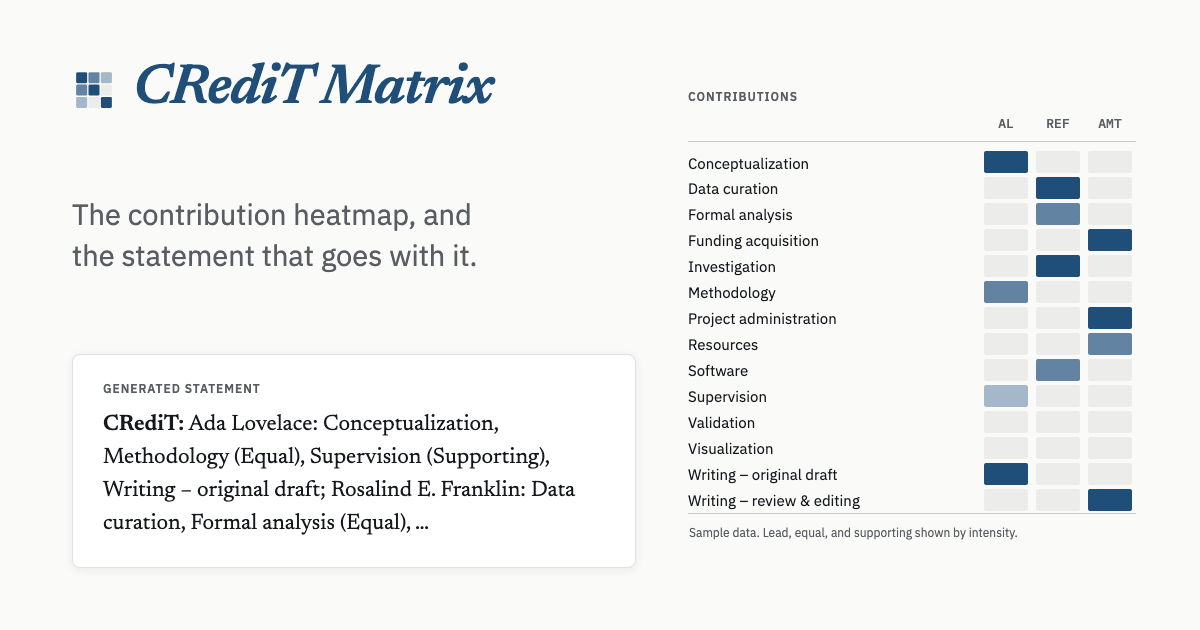
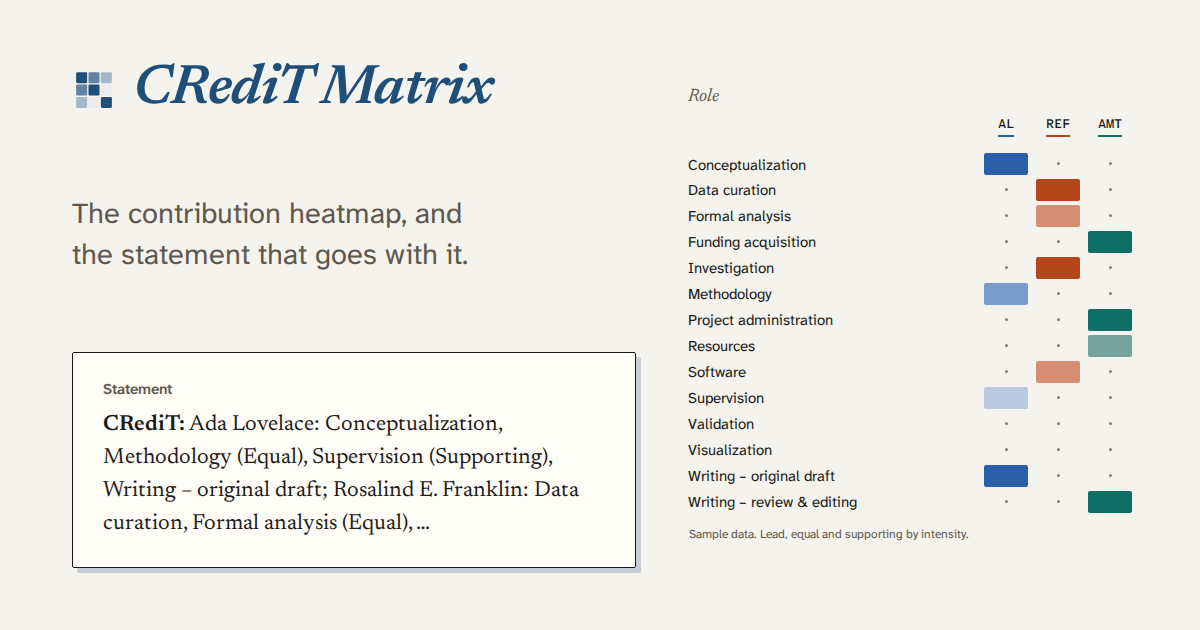
fix: save colour by contributor per draft and drop it past eight people
- keep colorByContributor in the draft beside heatmapMonoColor, so a picked
  hue survives a reload or draft switch; a draft saved before the field
  loads in one hue when it has a non-default colour, and reset turns it on
- contributorHues returns null past eight people, so the grid key and
  column rules fall back to one hue like the cells already did
- repair a stored heatmap colour that is not hex to the default, since the
  page tint mixes it into the background
- restyle the social card and the <credit-matrix> element to the new paper,
  ink edge and Atkinson stack
- fix the brand README paths to public/ after the Vite move

diff --git a/docs/brand/opengraph-image.html b/docs/brand/opengraph-image.html
@@ -1,32 +1,34 @@
 <!doctype html><meta charset="utf-8">
-<link href="https://fonts.googleapis.com/css2?family=Newsreader:ital,wght@0,400;0,600;1,600&family=IBM+Plex+Mono:wght@500&family=IBM+Plex+Sans:wght@400;500;600&display=swap" rel="stylesheet">
+<link href="https://fonts.googleapis.com/css2?family=Newsreader:ital,wght@0,400;0,600;1,400;1,600&family=Atkinson+Hyperlegible+Mono:wght@500&family=Atkinson+Hyperlegible+Next:wght@400;600&display=swap" rel="stylesheet">
 <style>
  *{box-sizing:border-box}
  html,body{margin:0;padding:0}
- body{width:1200px;height:630px;background:#fafaf9;font-family:"IBM Plex Sans",system-ui;color:#16181c;
+ body{width:1200px;height:630px;background:#f4f3ed;font-family:"Atkinson Hyperlegible Next",system-ui;color:#1c1a17;
       display:grid;grid-template-columns:1fr 448px;gap:52px;padding:56px 64px 56px 72px;overflow:hidden}
  .left{display:flex;flex-direction:column;justify-content:space-between;padding:6px 0}
  .lock{display:flex;align-items:center;gap:17px}
  .wm{font-family:Newsreader,serif;font-style:italic;font-weight:600;font-size:56px;line-height:1;
      letter-spacing:-.02em;color:#1f4e79}
- .sub{margin-top:26px;font-size:29px;line-height:1.4;color:#595c63;max-width:24ch;text-wrap:balance}
+ .sub{margin-top:26px;font-size:29px;line-height:1.4;color:#5e584e;max-width:24ch;text-wrap:balance}
  /* The statement is the app's real output, so it sits on the result card the
-    app gives it: bright paper, 8px corners, a slightly stronger shadow. */
- .out{background:#fff;border:1px solid rgba(201,201,197,.55);border-radius:8px;padding:26px 30px;
-      box-shadow:0 2px 10px rgba(22,24,28,.07)}
- .cap{font-size:12px;font-weight:600;letter-spacing:.08em;text-transform:uppercase;color:#595c63}
- .stmt{margin:13px 0 0;font-family:Newsreader,serif;font-size:22px;line-height:1.5;color:#16181c;max-width:46ch}
+    app gives it: bright paper, an ink edge and the hard sheet shadow. */
+ .out{background:#fffdf8;border:1px solid #1c1a17;border-radius:2px;padding:26px 30px;
+      box-shadow:5px 5px 0 rgb(31 78 121/.22)}
+ .cap{font-size:15px;font-weight:600;color:#5e584e}
+ .stmt{margin:10px 0 0;font-family:Newsreader,serif;font-size:22px;line-height:1.5;color:#1c1a17;max-width:46ch}
  .stmt b{font-weight:600}
  table{border-collapse:collapse;width:100%;align-self:center}
- caption{caption-side:top;text-align:left;font-size:12px;font-weight:600;letter-spacing:.08em;
-         text-transform:uppercase;color:#595c63;padding-bottom:11px}
- th.role{font-weight:400;font-size:15px;color:#16181c;text-align:left;padding:0 14px 0 0;white-space:nowrap}
- thead tr{border-bottom:1px solid #c9c9c5}
- thead th.ini{font-family:"IBM Plex Mono",monospace;font-weight:500;font-size:13px;color:#595c63;
-              padding:0 0 9px;width:52px}
- tfoot td{border-top:1px solid #c9c9c5;padding-top:11px;font-size:12px;color:#595c63}
+ caption{caption-side:top;text-align:left;font-family:Newsreader,serif;font-style:italic;font-size:18px;
+         color:#5e584e;padding-bottom:9px}
+ th.role{font-weight:400;font-size:15px;color:#1c1a17;text-align:left;padding:0 14px 0 0;white-space:nowrap}
+ thead th.ini{font-family:"Atkinson Hyperlegible Mono",monospace;font-weight:500;font-size:13px;color:#1c1a17;
+              padding:0 0 7px;width:52px}
+ /* Each column's name is underlined in that contributor's hue, as in the app. */
+ thead th.ini span{display:inline-block;padding-bottom:3px;border-bottom:2px solid var(--hue)}
+ tfoot td{padding-top:11px;font-size:12px;color:#5e584e}
  tbody tr td{padding:2px 0}
- .cell{width:44px;height:22px;border-radius:2px;margin:0 auto}
+ .cell{width:44px;height:22px;border-radius:2px;margin:0 auto;display:grid;place-items:center}
+ .cell.empty::after{content:"";width:3px;height:3px;border-radius:50%;background:#857d70}
  tbody tr:first-child td,tbody tr:first-child th{padding-top:9px}
 </style>
 <div class="left">
@@ -40,22 +42,23 @@
   </div>
   <p class="sub">The contribution heatmap, and the statement that goes with it.</p>
   <div class="out">
-    <div class="cap">Generated statement</div>
+    <div class="cap">Statement</div>
     <p class="stmt"><b>CRediT:</b> Ada Lovelace: Conceptualization, Methodology (Equal), Supervision (Supporting), Writing – original draft; Rosalind E. Franklin: Data curation, Formal analysis (Equal), …</p>
   </div>
 </div>
-<table id="m"><caption>Contributions</caption></table>
+<table id="m"><caption>Role</caption></table>
 <script>"use strict";
-const L='#1f4e79',E='#6283a1',S='#a5b8c9',N='#ececea';
+// The first three of CONTRIBUTOR_HUES (src/core/contributor-color.ts), lighter for equal and supporting.
+const hue={"Ada Lovelace":"#2a5fa8","Rosalind E. Franklin":"#b4471a","Alan M. Turing":"#0f6e66"};
 const roles=["Conceptualization","Data curation","Formal analysis","Funding acquisition","Investigation","Methodology","Project administration","Resources","Software","Supervision","Validation","Visualization","Writing – original draft","Writing – review & editing"];
 const data={"Ada Lovelace":{Conceptualization:100,Methodology:66,"Writing – original draft":100,Supervision:33},
  "Rosalind E. Franklin":{Investigation:100,"Data curation":100,Software:66,"Formal analysis":66},
  "Alan M. Turing":{"Funding acquisition":100,"Project administration":100,"Writing – review & editing":100,Resources:66}};
 const ini={"Ada Lovelace":"AL","Rosalind E. Franklin":"REF","Alan M. Turing":"AMT"};
-const fill=s=>s>66?L:s>33?E:s>0?S:N;
+const share=s=>s>66?100:s>33?62:32;
 const names=Object.keys(data);
 document.getElementById('m').innerHTML+=
- `<thead><tr><th class="role"></th>${names.map(n=>`<th class="ini">${ini[n]}</th>`).join('')}</tr></thead>`+
- `<tbody>${roles.map(r=>`<tr><th class="role">${r}</th>${names.map(n=>`<td><div class="cell" style="background:${fill(data[n][r]||0)}"></div></td>`).join('')}</tr>`).join('')}</tbody>`+
- `<tfoot><tr><td colspan="4">Sample data. Lead, equal, and supporting shown by intensity.</td></tr></tfoot>`;
+ `<thead><tr><th class="role"></th>${names.map(n=>`<th class="ini" style="--hue:${hue[n]}"><span>${ini[n]}</span></th>`).join('')}</tr></thead>`+
+ `<tbody>${roles.map(r=>`<tr><th class="role">${r}</th>${names.map(n=>`<td>${data[n][r]?`<div class="cell" style="background:color-mix(in oklab,${hue[n]} ${share(data[n][r])}%,#fffdf8)"></div>`:'<div class="cell empty"></div>'}</td>`).join('')}</tr>`).join('')}</tbody>`+
+ `<tfoot><tr><td colspan="4">Sample data. Lead, equal and supporting by intensity.</td></tr></tfoot>`;
 </script>

diff --git a/src/store/contribution-store.ts b/src/store/contribution-store.ts
@@ -55,6 +55,8 @@ export interface Draft {
   authors: Author[];
   inputMode: InputMode;
   heatmapMonoColor: string;
+  /** Colour the grid per contributor instead of in `heatmapMonoColor`. */
+  colorByContributor: boolean;
   outputLocale: LocaleCode;
   /** Last write, in epoch milliseconds. Orders the picker. */
   updatedAt: number;
@@ -158,9 +160,8 @@ interface ContributionState {
   inspectorTab: InspectorTab;
   /**
    * Colour the grid, chips and statement links per contributor rather than in
-   * the draft's one hue. A view preference, not part of a draft or a figure.
-   * shortcut: not persisted, so turning it off lasts until a reload; add it to
-   * PersistedState if people keep switching it off.
+   * the draft's one hue. Kept per draft, beside the hue it replaces; figures
+   * have their own option.
    */
   colorByContributor: boolean;
   /**
@@ -292,6 +293,7 @@ function liveDraft(state: ContributionState): Draft {
     authors: state.authors,
     inputMode: state.inputMode,
     heatmapMonoColor: state.heatmapMonoColor,
+    colorByContributor: state.colorByContributor,
     outputLocale: state.outputLocale,
     updatedAt: Date.now(),
     claim: state.claim,
@@ -307,6 +309,7 @@ function applyDraft(state: ContributionState, draft: Draft): void {
   state.authors = draft.authors;
   state.inputMode = draft.inputMode;
   state.heatmapMonoColor = draft.heatmapMonoColor;
+  state.colorByContributor = draft.colorByContributor;
   state.outputLocale = draft.outputLocale;
   state.claim = draft.claim;
   state.asks = draft.asks;
@@ -327,6 +330,7 @@ function emptyDraft(title = ""): Draft {
     authors: [],
     inputMode: "toggle",
     heatmapMonoColor: DEFAULT_MONO_COLOR,
+    colorByContributor: true,
     outputLocale: "en",
     updatedAt: Date.now(),
     claim: null,
@@ -431,7 +435,16 @@ function repairSingleDraft(value: unknown, id: string): Draft {
     title: typeof raw.title === "string" ? raw.title.slice(0, MAX_TITLE_LENGTH) : "",
     authors: repairAuthors(raw.authors),
     inputMode: raw.inputMode === "levels" ? "levels" : "toggle",
-    heatmapMonoColor: typeof raw.heatmapMonoColor === "string" ? raw.heatmapMonoColor : DEFAULT_MONO_COLOR,
+    // The page tint mixes this into its background, so a damaged value would blank the page.
+    heatmapMonoColor:
+      typeof raw.heatmapMonoColor === "string" && /^#(?:[0-9a-f]{3}|[0-9a-f]{6})$/i.test(raw.heatmapMonoColor)
+        ? raw.heatmapMonoColor
+        : DEFAULT_MONO_COLOR,
+    // A draft saved before this field kept the hue someone picked, so only an untouched one colours per person.
+    colorByContributor:
+      typeof raw.colorByContributor === "boolean"
+        ? raw.colorByContributor
+        : (raw.heatmapMonoColor ?? DEFAULT_MONO_COLOR) === DEFAULT_MONO_COLOR,
     outputLocale: normalizeLocaleCode(raw.outputLocale),
     updatedAt: typeof raw.updatedAt === "number" ? raw.updatedAt : 0,
     claim: isDraftClaim(raw.claim) ? raw.claim : null,
@@ -1323,6 +1336,7 @@ export const useContributionStore = create<ContributionState>()(
           state.title = "";
           state.inputMode = "toggle";
           state.heatmapMonoColor = DEFAULT_MONO_COLOR;
+          state.colorByContributor = true;
           state.outputLocale = "en";
           state.asks = {};
           state.selfId = null;

diff --git a/src/store/contribution-store.test.ts b/src/store/contribution-store.test.ts
@@ -1,5 +1,6 @@
 import { beforeEach, describe, expect, it, vi } from "vitest";
 import { CREDIT_ROLES, createAuthor } from "@/core";
+import { DEFAULT_MONO_COLOR } from "@/core/contributor-color";
 import type { LocaleCode } from "@/core/i18n";
 import { reloadForNewerSave } from "@/lib/reload-for-new-build";
 import {
@@ -1522,6 +1523,33 @@ describe("contribution store", () => {
       expect(saved.drafts.d2?.future).toBe("kept too");
     });
 
+    it("loads an older draft in one hue only when its owner had picked one", () => {
+      const merge = useContributionStore.persist.getOptions().merge;
+      const load = (d1: object) =>
+        (merge?.({ activeDraftId: "d1", drafts: { d1 } }, initial) as typeof initial | undefined)?.colorByContributor;
+      expect(load({ heatmapMonoColor: "#009e73" })).toBe(false);
+      expect(load({})).toBe(true);
+      expect(load({ heatmapMonoColor: "#009e73", colorByContributor: true })).toBe(true);
+    });
+
+    it("drops a damaged heatmap colour instead of tinting the page with it", () => {
+      const merge = useContributionStore.persist.getOptions().merge;
+      const merged = merge?.(
+        { activeDraftId: "d1", drafts: { d1: { heatmapMonoColor: "red;" } } },
+        initial,
+      ) as typeof initial;
+      expect(merged.heatmapMonoColor).toBe(DEFAULT_MONO_COLOR);
+    });
+
+    it("keeps colour by contributor per draft", () => {
+      store().setColorByContributor(false);
+      const first = store().activeDraftId;
+      store().createDraft();
+      expect(store().colorByContributor).toBe(true);
+      store().switchDraft(first);
+      expect(store().colorByContributor).toBe(false);
+    });
+
     it("keeps a well-formed claim through the repair pass", () => {
       const merge = useContributionStore.persist.getOptions().merge;
       const claim = { contributorId: "contributor-1", sourceDraftId: "draft-2" };
@@ -1541,6 +1569,7 @@ describe("contribution store", () => {
         authors: [],
         inputMode: "toggle",
         heatmapMonoColor: "#2563eb",
+        colorByContributor: false,
         outputLocale: "en",
         updatedAt: 0,
         claim: null,
@@ -1599,6 +1628,7 @@ describe("contribution store", () => {
         authors: [],
         inputMode: "toggle" as const,
         heatmapMonoColor: "#2563eb",
+        colorByContributor: false,
         outputLocale: "en" as const,
         updatedAt: 0,
         claim: null,
@@ -1655,6 +1685,7 @@ describe("contribution store", () => {
         authors: [],
         inputMode: "toggle",
         heatmapMonoColor: "#2563eb",
+        colorByContributor: false,
         outputLocale: "en",
         updatedAt: 0,
         claim: null,
@@ -1712,6 +1743,7 @@ describe("contribution store", () => {
         authors: [],
         inputMode: "toggle",
         heatmapMonoColor: "#2563eb",
+        colorByContributor: false,
         outputLocale: "en",
         updatedAt: 0,
         claim: null,

diff --git a/src/core/element.ts b/src/core/element.ts
@@ -6,15 +6,15 @@ import { fromJson, RepeatedIdError } from "./export/json";
 import { generateStatement, STATEMENT_FORMATS, type StatementFormat } from "./generate-statement";
 import { normalizeRoster } from "./parse-authors";
 
-// The app's paper-and-ink look: IBM Plex Sans where the page has it, its neutrals otherwise.
+// The app's paper-and-ink look: Atkinson Hyperlegible or IBM Plex where the page has them, its neutrals otherwise.
 // The element is its own card, so its text keeps its contrast on a dark page too.
 const STYLE = `
-:host { display: block; font-family: "IBM Plex Sans", "Helvetica Neue", Arial, sans-serif; color: #16181c; background: #fafaf9; padding: 1rem; border-radius: 8px; }
+:host { display: block; font-family: "Atkinson Hyperlegible Next", "IBM Plex Sans", "Helvetica Neue", Arial, sans-serif; color: #1c1a17; background: #fbf8f1; padding: 1rem; border: 1px solid #1c1a17; border-radius: 4px; }
 :host([hidden]) { display: none; }
 figure { margin: 0; position: relative; }
 .scroll { overflow-x: auto; }
-.scroll:focus-visible { outline: 2px solid #16181c; outline-offset: 2px; }
-svg { display: block; border: 1px solid #e4e4e1; border-radius: 6px; }
+.scroll:focus-visible { outline: 2px solid #1c1a17; outline-offset: 2px; }
+svg { display: block; border: 1px solid #d6ccba; border-radius: 2px; }
 p { margin: 0.75em 0 0; line-height: 1.5; }
 style + p { margin-top: 0; }
 .error { color: #9b1c1c; }

diff --git a/src/core/__tests__/heatmap-options.test.ts b/src/core/__tests__/heatmap-options.test.ts
@@ -45,6 +45,14 @@ describe("heatmap figure options", () => {
     expect(byPerson).toContain('fill="#404040"');
     expect(() => buildHeatmapSvg(pair, { colorBy: "rainbow" as "color" })).toThrow("colorBy");
   });
+  it("draws everyone and the key in one hue past the palette's eight people", () => {
+    const many = Array.from({ length: CONTRIBUTOR_HUES.length + 1 }, (_, i) =>
+      createAuthor(`Person ${i + 1}`, { contributions: [{ role: "Software", score: 100 }] }),
+    );
+    const svg = buildHeatmapSvg(many, { colorBy: "contributor" });
+    expect(svg).toBe(buildHeatmapSvg(many));
+    expect(svg).not.toContain('fill="#404040"');
+  });
   it("rejects invalid options before drawing invalid SVG", () => {
     for (const size of [0, -1, Number.NaN, Number.POSITIVE_INFINITY]) {
       expect(() => buildHeatmapSvg(authors, { size })).toThrow("size");

diff --git a/src/core/export/heatmap-svg.ts b/src/core/export/heatmap-svg.ts
@@ -131,8 +131,8 @@ export function buildHeatmapSvg(authors: Author[], opts?: HeatmapSvgOptions): st
     throw new HeatmapOptionError("Heatmap color must be a three- or six-digit hex color.");
   const colorBy = opts?.colorBy ?? "color";
   if (!["color", "contributor"].includes(colorBy)) throw new HeatmapOptionError("Unknown heatmap colorBy.");
-  const authorHues = colorBy === "contributor" ? contributorHues(authors.length, monoColor) : null;
-  const perAuthor = authorHues?.some((hue) => hue !== monoColor) ?? false;
+  const authorHues = colorBy === "contributor" ? contributorHues(authors.length) : null;
+  const perAuthor = authorHues !== null;
   // One colour per person makes the fill strength the only level cue, so the key shows it in a neutral.
   const legendHue = perAuthor ? LEGEND_NEUTRAL : monoColor;
   const size = opts?.size ?? CELL;

diff --git a/src/core/contributor-color.ts b/src/core/contributor-color.ts
@@ -41,11 +41,11 @@ export const CONTRIBUTOR_HUES = [
 ] as const;
 
 /**
- * Each contributor's hue, in list order. Past the palette's eight hues two
- * people would share a colour, so a longer list falls back to `mono` for all.
+ * Each contributor's hue, in list order, or null past the palette's eight
+ * hues, where two people would share a colour and the view uses one hue.
  */
-export function contributorHues(count: number, mono: string): string[] {
-  return count <= CONTRIBUTOR_HUES.length ? CONTRIBUTOR_HUES.slice(0, count) : Array(count).fill(mono);
+export function contributorHues(count: number): string[] | null {
+  return count <= CONTRIBUTOR_HUES.length ? CONTRIBUTOR_HUES.slice(0, count) : null;
 }
 
 const NONE_FILL = "#ececea";

diff --git a/src/core/__tests__/contrast.test.ts b/src/core/__tests__/contrast.test.ts
@@ -135,10 +135,8 @@ describe("contributor hues", () => {
   });
 
   it("give each person their own hue, and one shared hue past the palette", () => {
-    expect(contributorHues(3, "#123456")).toEqual(CONTRIBUTOR_HUES.slice(0, 3));
-    expect(new Set(contributorHues(CONTRIBUTOR_HUES.length, "#123456")).size).toBe(CONTRIBUTOR_HUES.length);
-    expect(contributorHues(CONTRIBUTOR_HUES.length + 1, "#123456")).toEqual(
-      Array(CONTRIBUTOR_HUES.length + 1).fill("#123456"),
-    );
+    expect(contributorHues(3)).toEqual(CONTRIBUTOR_HUES.slice(0, 3));
+    expect(new Set(contributorHues(CONTRIBUTOR_HUES.length)).size).toBe(CONTRIBUTOR_HUES.length);
+    expect(contributorHues(CONTRIBUTOR_HUES.length + 1)).toBeNull();
   });
 });

diff --git a/src/components/ReviewPanel.tsx b/src/components/ReviewPanel.tsx
@@ -77,7 +77,7 @@ export function ReviewPanel() {
   const monoColor = useContributionStore((s) => s.heatmapMonoColor);
   const colorByContributor = useContributionStore((s) => s.colorByContributor);
   // The same hue the person's grid column uses.
-  const hues = colorByContributor ? contributorHues(authors.length, monoColor) : null;
+  const hues = colorByContributor ? contributorHues(authors.length) : null;
   const hueFor = (authorId: string) => hues?.[authors.findIndex((a) => a.id === authorId)] ?? monoColor;
   const levels = useContributionStore((s) => s.inputMode === "levels");
   const dark = useTheme().resolvedTheme === "dark";

diff --git a/src/components/steps/ContributionGrid.tsx b/src/components/steps/ContributionGrid.tsx
@@ -302,7 +302,7 @@ export function ContributionGrid() {
   };
   const namedHeaders = !acronyms && authors.length <= MAX_NAMED_COLUMNS;
   // Each person's hue, by list position; one hue for all when the view says so.
-  const hues = colorByContributor ? contributorHues(authors.length, heatmapMonoColor) : null;
+  const hues = colorByContributor ? contributorHues(authors.length) : null;
   const hueOf = (author: Author) => hues?.[authors.indexOf(author)] ?? heatmapMonoColor;
 
   cellApi.current = {

diff --git a/docs/brand/README.md b/docs/brand/README.md
@@ -6,20 +6,20 @@ and 1.0 of the way toward ink-blue, plus the fill of an empty cell.
 
 | Asset | Source | Output |
 | --- | --- | --- |
-| Favicon | `src/app/icon.svg` | Served as written; carries its own dark-mode fills |
+| Favicon | `public/icon.svg` | Served as written; carries its own dark-mode fills |
 | Header lockup | `src/components/BrandMark.tsx` | Rendered inline; draws in `currentColor`, so it follows the theme |
-| Apple touch icon | `docs/brand/apple-icon.html` | `src/app/apple-icon.png` |
-| Social card | `docs/brand/opengraph-image.html` | `src/app/opengraph-image.png` |
+| Apple touch icon | `docs/brand/apple-icon.html` | `public/apple-icon.png` |
+| Social card | `docs/brand/opengraph-image.html` | `public/opengraph-image.png` |
 | Maskable icon | `docs/brand/maskable-icon.html` | `public/icon-512.png`, via the web app manifest |
 
-The two PNGs are rendered from the HTML in this folder ahead of time, not on each request, because
-`next/og` needs a WASM renderer that the Cloudflare Workers runtime doesn't include for free.
+The PNGs are rendered from the HTML in this folder ahead of time, not on each request, because
+rendering them in the Cloudflare Worker would need a WASM image renderer.
 
 ```sh
 pnpm exec playwright screenshot --viewport-size=1200,630 \
-  "file://$PWD/docs/brand/opengraph-image.html" src/app/opengraph-image.png
+  "file://$PWD/docs/brand/opengraph-image.html" public/opengraph-image.png
 pnpm exec playwright screenshot --viewport-size=180,180 \
-  "file://$PWD/docs/brand/apple-icon.html" src/app/apple-icon.png
+  "file://$PWD/docs/brand/apple-icon.html" public/apple-icon.png
 pnpm exec playwright screenshot --viewport-size=512,512 \
   "file://$PWD/docs/brand/maskable-icon.html" public/icon-512.png
 ```

diff --git a/DESIGN.md b/DESIGN.md
@@ -113,7 +113,8 @@ it. The eight hues in `CONTRIBUTOR_HUES` (`src/core/contributor-color.ts`) diffe
 lightness, and each carries white initials at 4.5:1 or more. A person is also named by their column,
 so colour is never the only cue. Past eight contributors two people would share a hue, so the grid
 falls back to the draft's one hue. Choosing a heatmap colour also switches to one hue, because that
-is what the person asked to see. Colour by contributor is a display option beside the heatmap colour.
+is what the person asked to see. Colour by contributor is a display option, saved per draft beside the
+heatmap colour.
 
 Ink blue does not reach a 3:1 contrast against muted paper text, so a link inside a sentence is
 underlined as well as colored. A link on a line of its own may stay plain until hovered.
